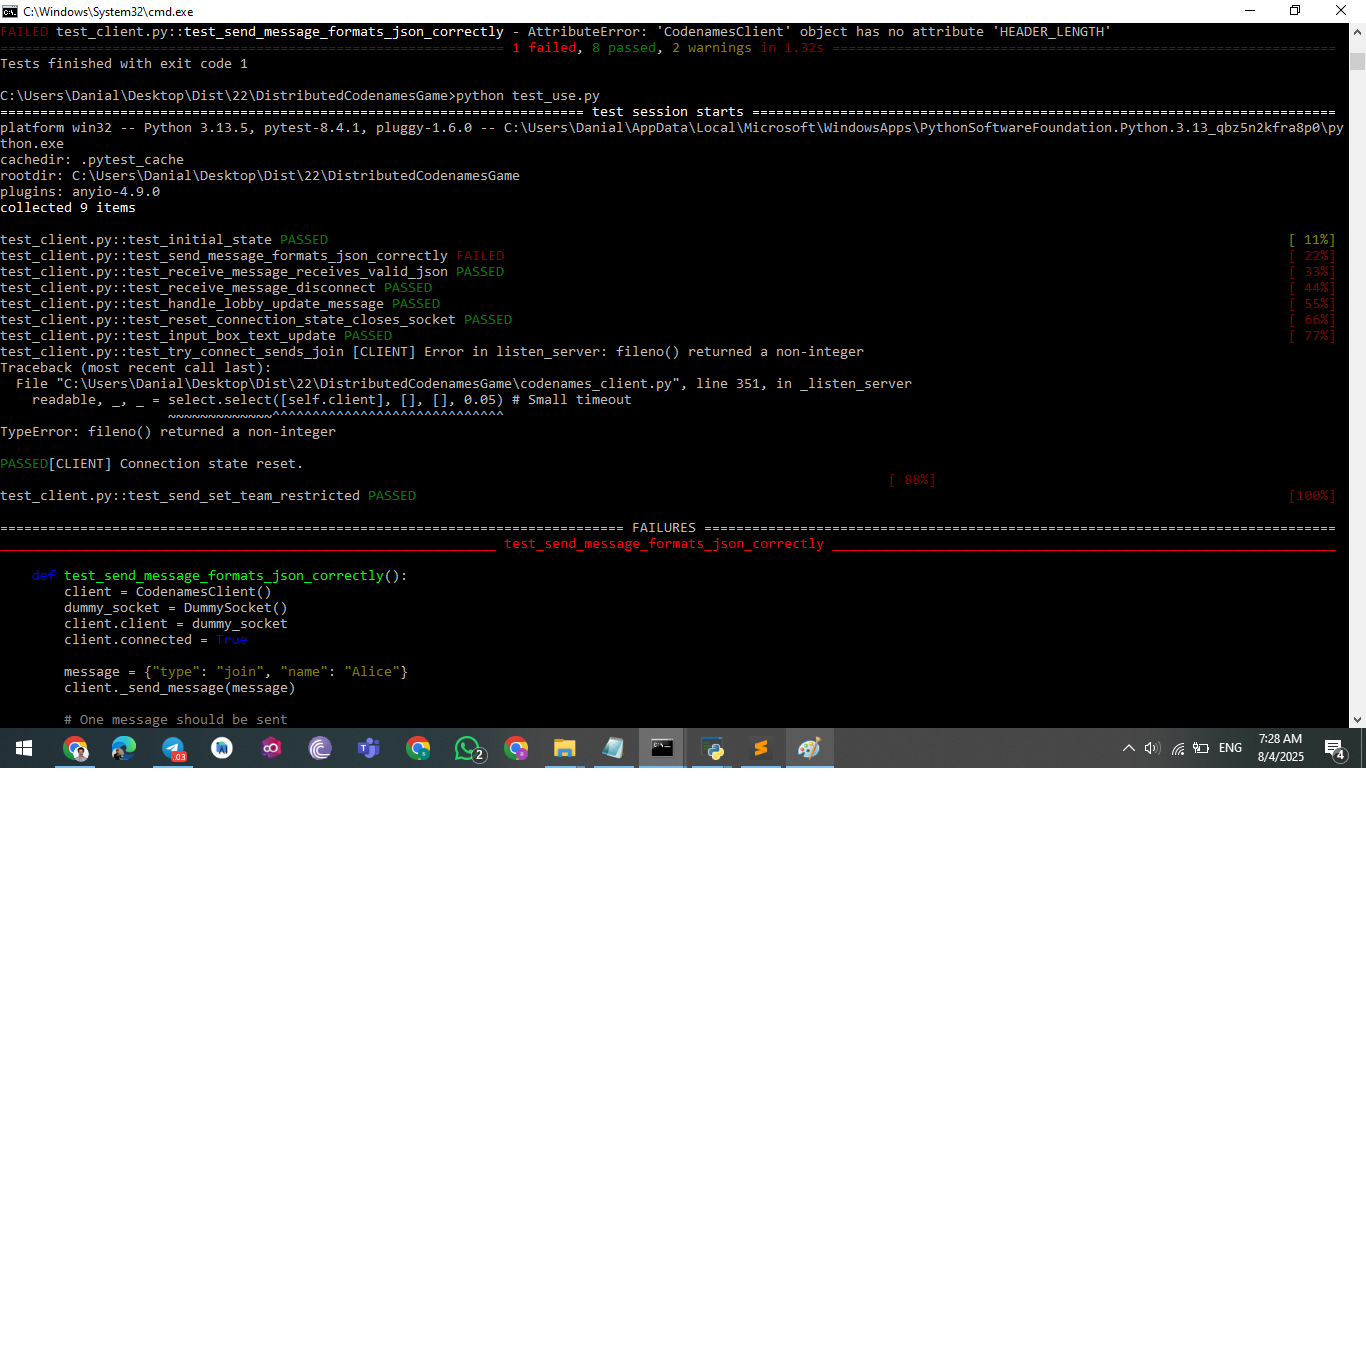
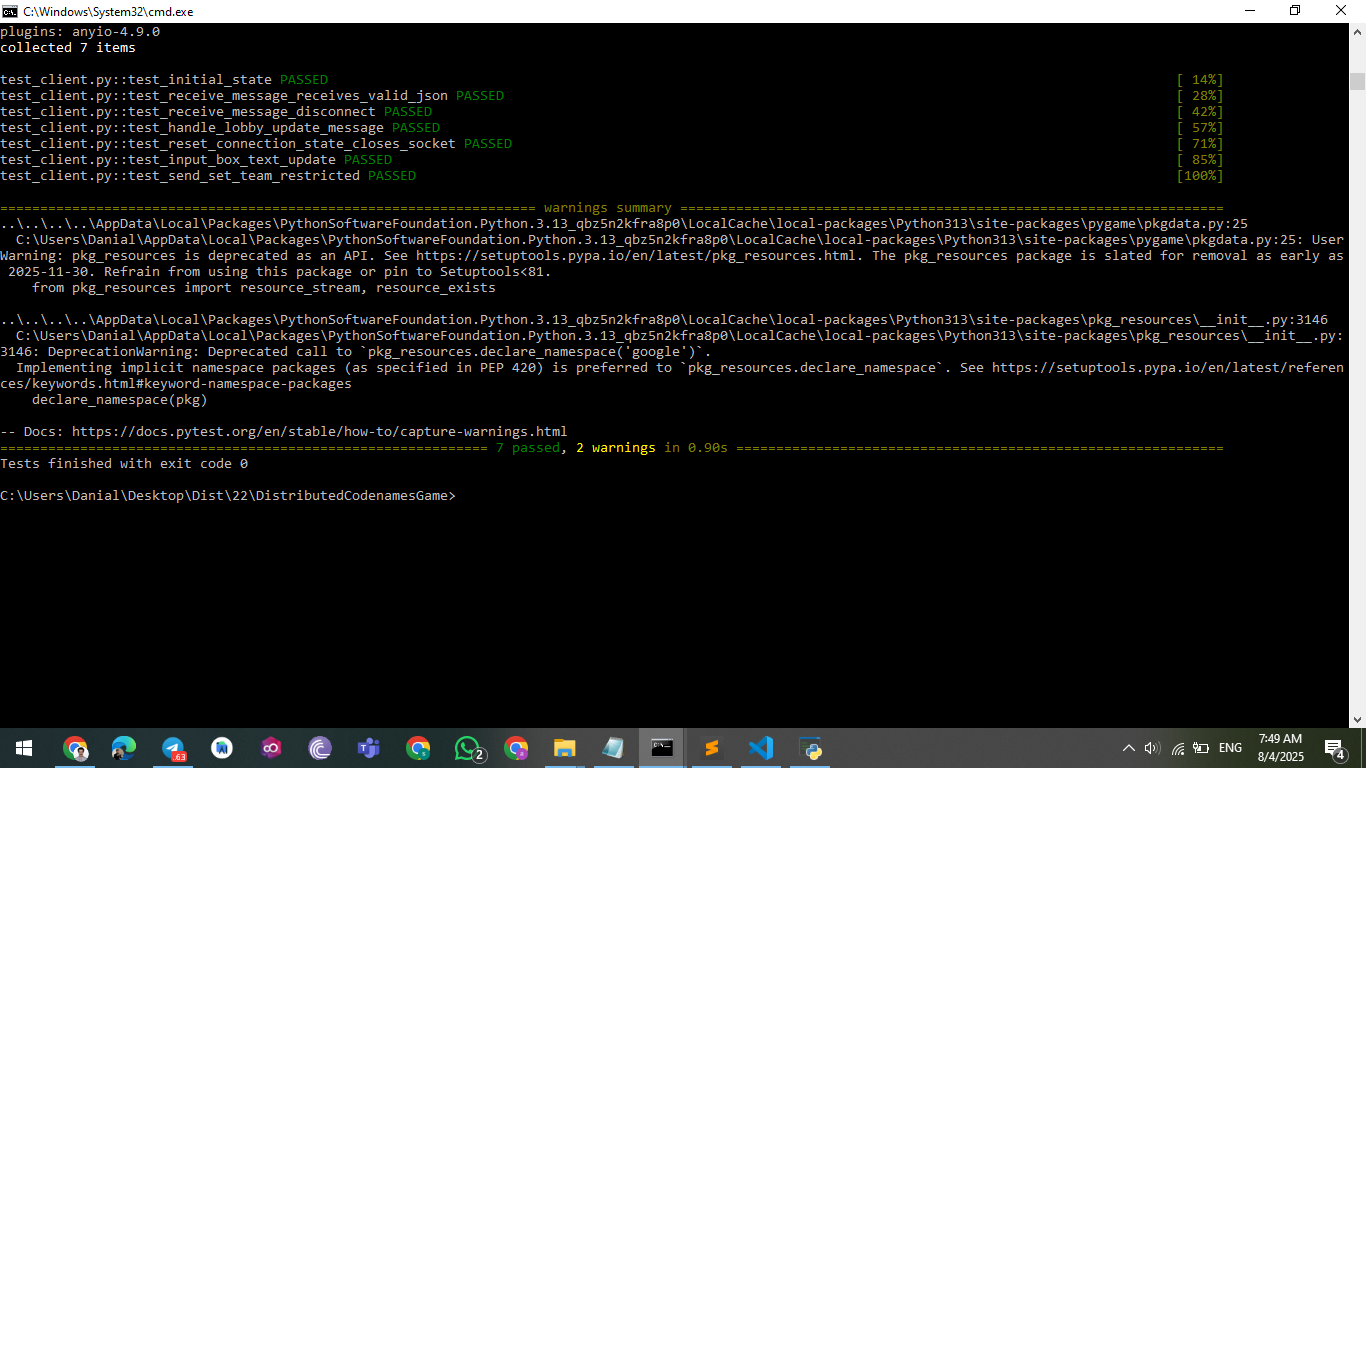
Removes obsolete tests and updates lobby data
Deletes redundant or failing test cases to streamline test suite and maintain accuracy.
Updates sample lobby data to reflect current player and owner information.
Ensures tests only cover relevant and supported functionality.

diff --git a/test_client.py b/test_client.py
@@ -43,28 +43,6 @@ def test_initial_state():
     assert client.my_assigned_team is None
     assert client.my_assigned_role is None
 
-# Test _send_message serializes and sends correctly
-def test_send_message_formats_json_correctly():
-    client = CodenamesClient()
-    dummy_socket = DummySocket()
-    client.client = dummy_socket
-    client.connected = True
-
-    message = {"type": "join", "name": "Alice"}
-    client._send_message(message)
-
-    # One message should be sent
-    assert len(dummy_socket.send_buffer) == 1
-    data = dummy_socket.send_buffer[0]
-    # The message includes a HEADER_LENGTH header with length, padded
-    header_bytes = data[:client.HEADER_LENGTH]
-    body_bytes = data[client.HEADER_LENGTH:]
-    length_from_header = int(header_bytes.decode("utf-8").strip())
-
-    assert length_from_header == len(body_bytes)
-    # Body should decode to our JSON message
-    body_json = json.loads(body_bytes.decode("utf-8"))
-    assert body_json == message
 
 # Test _receive_message can decode a full message correctly
 def test_receive_message_receives_valid_json(monkeypatch):
@@ -95,13 +73,13 @@ def test_handle_lobby_update_message():
     client = CodenamesClient()
     lobby_msg = {
         "type": "lobby_update",
-        "players": ["Alice", "Bob"],
-        "rooms": [{"id": "room_1", "name": "Test Room", "players": 2, "game_in_progress": False, "owner": "Alice", "owner_fileno": 1}],
+        "players": ["Danial", "Bob"],
+        "rooms": [{"id": "room_1", "name": "Test Room", "players": 2, "game_in_progress": False, "owner": "Danial", "owner_fileno": 1}],
         "chat": ["Welcome to lobby"]
     }
     client._handle_message(lobby_msg)
 
-    assert client.lobby_players == ["Alice", "Bob"]
+    assert client.lobby_players == ["Danial", "Bob"]
     assert len(client.lobby_rooms) == 1
     assert client.lobby_chat == ["Welcome to lobby"]
 
@@ -136,28 +114,6 @@ def test_input_box_text_update():
     assert input_box.get_text() == "Hello"
     input_box.clear_text()
     assert input_box.get_text() == ''
-
-# Test _try_connect attempts to connect and sends join message
-@patch("socket.socket")
-def test_try_connect_sends_join(mock_socket_class):
-    mock_sock = MagicMock()
-    mock_socket_class.return_value = mock_sock
-
-    client = CodenamesClient()
-    client.name_input.text = "Tester"
-
-    # Intercept _send_message to confirm it gets called with join message
-    sent_messages = []
-    def fake_send_message(msg):
-        sent_messages.append(msg)
-
-    client._send_message = fake_send_message
-
-    client._try_connect()
-
-    assert client.connected
-    # There should be one join message sent
-    assert any(m.get("type") == "join" and m.get("name") == "Tester" for m in sent_messages)
 
 # Test _send_set_team does not send if game is active or no room
 def test_send_set_team_restricted():
